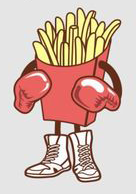
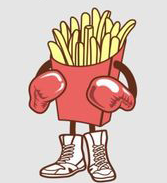
One Page Website update
- Adjusted dimensions of all images to transition better in the modal view
- Updated view to properly show the modal view after and all of its content without being cut off
- Updated some CSS names to align properly for the exercise and debug a little easier

diff --git a/Assignments/One-Page-Website/one_page_website.html b/Assignments/One-Page-Website/one_page_website.html
@@ -93,27 +93,27 @@
 					</div>
 
 					<div class="foodThumbnail">
-						<img class="demo" src="./images/donut.png" style="width:50%" onclick="currentSlide(1)" alt="Donuts">
+						<img class="demo" src="./images/donut.png" onclick="currentSlide(1)" alt="Donuts">
 					</div>
 					
 					<div class="foodThumbnail">
-						<img class="demo" src="./images/fries.png" style="width:50%" onclick="currentSlide(2)" alt="Fries">
+						<img class="demo" src="./images/fries.png" onclick="currentSlide(2)" alt="Fries">
 					</div>
 					
 					<div class="foodThumbnail">
-						<img class="demo" src="./images/hamburger.png" style="width:50%" onclick="currentSlide(3)" alt="Hamburgers">
+						<img class="demo" src="./images/hamburger.png" onclick="currentSlide(3)" alt="Hamburgers">
 					</div>
 					
 					<div class="foodThumbnail">
-						<img class="demo" src="./images/hotdog.png" style="width:50%" onclick="currentSlide(4)" alt="Hotdogs">
+						<img class="demo" src="./images/hotdog.png" onclick="currentSlide(4)" alt="Hotdogs">
 					</div>
 
 					<div class="foodThumbnail">
-						<img class="demo" src="./images/pizza.png" style="width:50%" onclick="currentSlide(5)" alt="Pizza">
+						<img class="demo" src="./images/pizza.png" onclick="currentSlide(5)" alt="Pizza">
 					</div>
 
 					<div class="foodThumbnail">
-						<img class="demo" src="./images/popcorn.png" style="width:50%" onclick="currentSlide(6)" alt="Popcorn">
+						<img class="demo" src="./images/popcorn.png" onclick="currentSlide(6)" alt="Popcorn">
 					</div>
 
 				</div>

diff --git a/Assignments/One-Page-Website/css/one_page_website.css b/Assignments/One-Page-Website/css/one_page_website.css
@@ -98,6 +98,11 @@ h2, h4
     padding-top: 2%;
 }
 
+.food-options > .food
+{
+    padding: 0 8px;
+}
+
 .food-options
 {
     text-align: center;
@@ -105,6 +110,13 @@ h2, h4
     width: 1100px;
     height: 250px;
     display: inline-flex;
+}
+
+.food-options::after
+{
+    content: "";
+    display: table;
+    clear: both;
 }
 
 .food
@@ -163,7 +175,7 @@ footer, nav
     display: none;
     position: fixed;
     z-index: 1;
-    padding-top: 100%;
+    padding-top: 5%;
     left: 0;
     top: 0;
     width: 100%;
@@ -178,8 +190,8 @@ footer, nav
     background-color: #fefefe;
     margin: auto;
     padding: 0;
-    width: 90%;
-    max-width: 1200px;
+    width: 50%;
+    max-width: auto;
 }
 
 /* Close button */
@@ -215,7 +227,7 @@ footer, nav
 {
     cursor: pointer;
     position: absolute;
-    top: 15%;
+    top: 40%;
     width: auto;
     padding: 16px;
     margin-top: -50px;
@@ -230,7 +242,8 @@ footer, nav
 
 .next
 {
-    right: 0;
+    left: 0;
+    margin-left: 22%;
     border-radius: 3px 0 0 3px;
 }
 
@@ -239,23 +252,23 @@ footer, nav
     background-color: #999;
 }
 
-img.foodThumbnail
+img.demo
 {
     opacity: 0.6;
 }
 
 .active,
-.foodThumbnail:hover 
+.demo:hover 
 {
   opacity: 1;
 }
 
-.foodThumbnail
+.demo
 {
-    /*float: left;*/
-    width: 16%;
-    margin-bottom: 50%;
+    float: left;
+    width: 16.66%;
     opacity: 0.6;
 }
+
 
 /* #endregion Modal content */

diff --git a/Assignments/One-Page-Website/js/one_page_website.js b/Assignments/One-Page-Website/js/one_page_website.js
@@ -13,7 +13,7 @@ showSlides(slideIndex);
 
 function plusSlides(n)
 {
-    showSlides(slideIndex = n);
+    showSlides(slideIndex += n);
 }
 
 function currentSlide(n)
